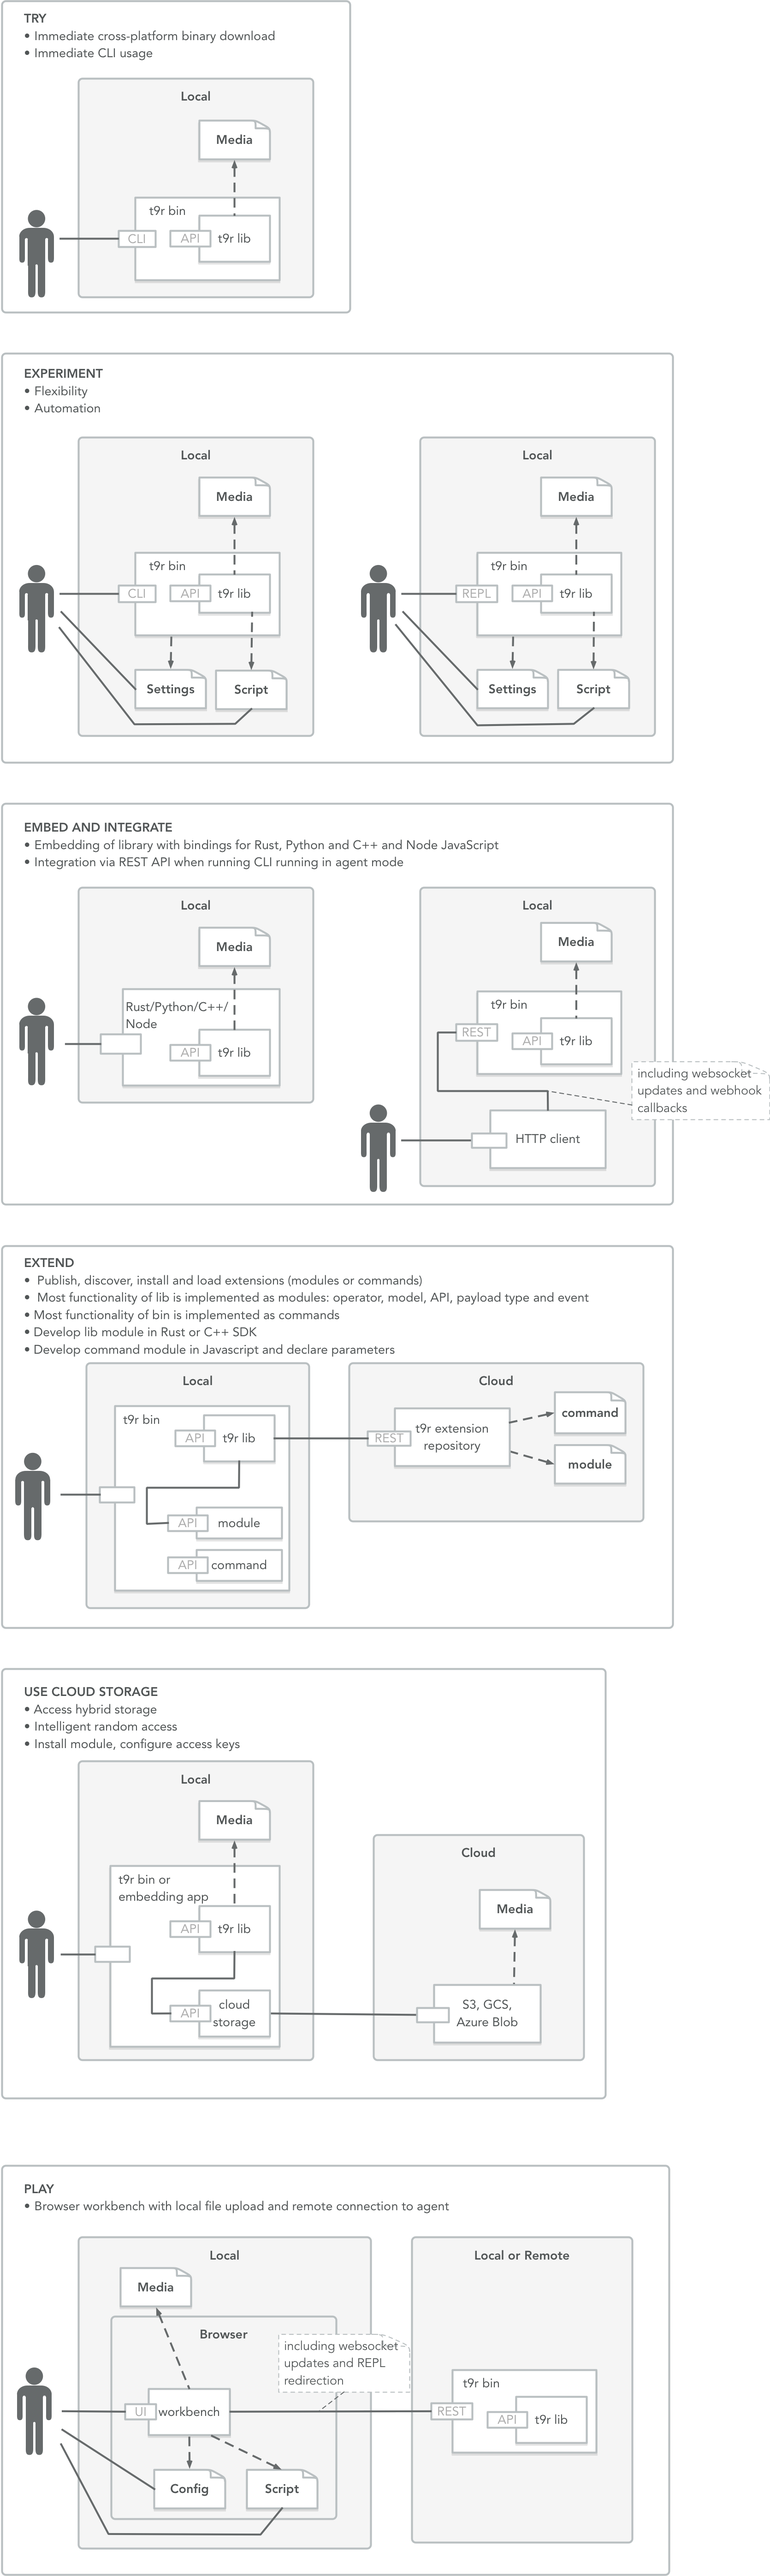
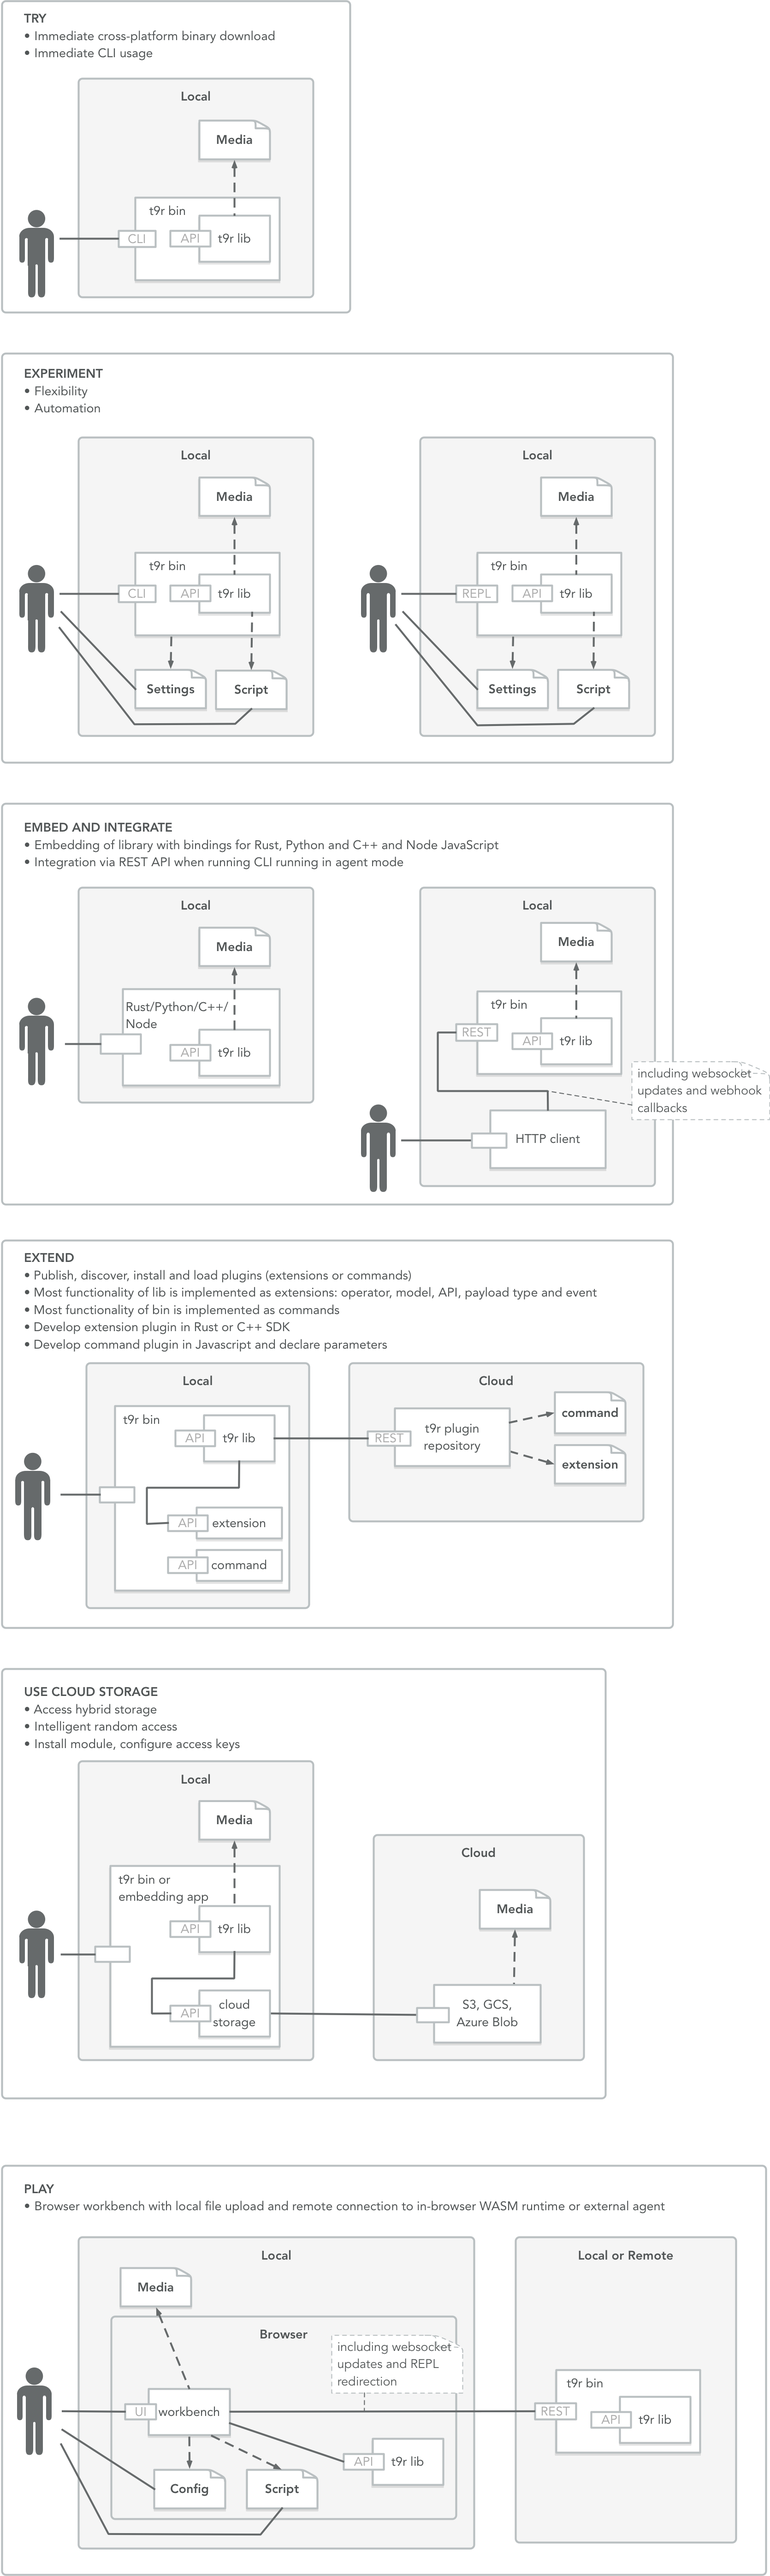
latest updates

Changed region(s): [[0.3737, 0.8412, 0.9964, 1.0], [0.0311, 0.4673, 0.5293, 0.5296]]

diff --git a/design/domain-model-concepts.md b/design/domain-model-concepts.md
@@ -4,15 +4,15 @@ A NodeJS based runtime provides Javascript based access to the t9r framework lib
 
 A core part of this API is a flow based processing model.
 
-Modules extend the API with additional processing operators, data models, data stores, payload types and item attributes.      
+Plugins extend the API with additional processing operators, data models, data stores, payload types and item attributes.      
 
 ### Runtime
 
-The core runtime is exposed via a Javascript API executed within a NodeJS process.
+The core runtime is exposed via a Javascript API executed within
 
-Usage is via a single binary executable CLI.
-
-The CLI also provides a REPL scripting environment and running in agent mode to expose a REST API. 
+- a NodeJS runtime where usage is via a single binary executable CLI. The CLI also provides a REPL scripting 
+environment and running in agent mode to expose a REST API.
+- a browser web worker and WASM based runtime where usage is via a workbench web app.
 
 ### Flow Based Processing
 
@@ -32,12 +32,13 @@ e.g. new flows added.
 At the core all media is read and written using streams, but with the usage of stream attributes e.g. seekable, it is 
 possible to expose efficient access if the underlying storage allows.
 
-Useful 3rd-party tools e.g. ffmpeg can be utilised via modules which explicitly wrap specific functionality as operators.
+Useful 3rd-party tools e.g. ffmpeg can be utilised via extension plugins which explicitly wrap specific functionality
+ as operators.
 
 Flow based processing logic can be performed:
-    - 'in loop': via internal operator logic or via operator exposed callbacks
-    - 'out of loop': via processing graph callbacks, dynamic changes to operator parameters and pre- or post-processing 
-    access to model data accessible to operators via data stores
+- *in loop*: via internal operator logic or via operator exposed callbacks
+- *out of loop*: via processing graph callbacks, dynamic changes to operator parameters and pre- or post-processing 
+access to model data accessible to operators via data stores
 
 A processing session might consist of:
 
@@ -94,9 +95,9 @@ It is possible to globally configure interceptors for all links.
 Items are the units of data passed from operators over links.
 
 An item consists of:
-- attributes: a key->object map
-- payload type: negotiated between operators
-- payload: a chunk of data of the specified payload type
+- *attributes*: a key->object map
+- *payload type*: negotiated between operators
+- *payload*: a chunk of data of the specified payload type
 
 Defined payload types are registered in the registry by modules.
 
@@ -105,31 +106,31 @@ readonly, writable and whether their operator propagation rules.
  
 Punctuation attribute keys e.g. end of stream are dded by the core framework to the registry.
 
-### Extensions
+### Plugins
 
-An extension to the core system is either a module or a command.
+A plugin to the core system is either an extension or a command.
 
 Most of the core t9r functionality is implemented via extensions to the core runtime.
 
-t9r extensions can be discovered and installed using the CLI. 
+t9r plugins can be discovered and installed using the CLI. 
 
-### Modules
+### Extensions
 
-Defined module types are:
+Defined extension types are:
 
-- operator
-- model
-- registry
-- data store
+- *operator*
+- *model*
+- *registry*
+- *data store*
   
-A module consists of a name, a version, dependencies, Javascript and optionally native code libraries.
+An extension consists of a name, a version, dependencies, Javascript and optionally native code libraries.
 
 ### Commands
 
 A command wraps Javascript functionality in a function so that it can be simply executed as a CLI command line argument. 
 
-A commands consists of a name, a version, dependencies, Javascript and a definition of command line arguments and how these are mapped to arguments in 
-the Javascript logic.
+A commands consists of a name, a version, dependencies, Javascript and a definition of command line arguments and 
+how these are mapped to arguments in the Javascript logic.
 
 ### Operators
 
@@ -137,58 +138,58 @@ An operator is implemented in native code and exposed via a Javascript binding.
 
 An operator is defined by:
 
-- properties: typed values which modify operator behaviour and can only be set before the operator is added to a graph 
-- parameters: typed values which modify operator behaviour and can be set while processing is occurring
-- pins:
-	- label: identifier for the pin
-	- type (producer, consumer): whether the pin produces or consumes items 
-	- supportedPayloadTypes: supported item payload types for this pin
-	- assignedPayloadType: item payload type assigned to the link connected to this pin
-	- mandatory: the pin must be linked
-	- static (1, n): a fixed number of these pins
-	- dynamic (added, removed, 0..*): an unknown, variable number of these pins
-	- requested (add, remove, 0..n): a variable, but fixed maximum number of these pins
-    - constraints: constraints defined between pins
+- *properties*: typed values which modify operator behaviour and can only be set before the operator is added to a graph 
+- *parameters*: typed values which modify operator behaviour and can be set while processing is occurring
+- *pins*:
+	- *label*: identifier for the pin
+	- *type* (producer, consumer): whether the pin produces or consumes items 
+	- *supportedPayloadTypes*: supported item payload types for this pin
+	- *assignedPayloadType*: item payload type assigned to the link connected to this pin
+	- *mandatory*: the pin must be linked
+	- *static* (1, n): a fixed number of these pins
+	- *dynamic* (added, removed, 0..*): an unknown, variable number of these pins
+	- *requested* (add, remove, 0..n): a variable, but fixed maximum number of these pins
+    - *constraints*: constraints defined between pins
     
 Example core operators:
 
-- producer: produce items 
-- consumer: consume items
-- transform: modify or consume and produce new items e.g. Attribute Filter, Attribute Enricher
-- route e.g. Payload Type Router, Attribute Router, Scripted Router
-- filter: only pass on certain items e.g. a scripted filter:
+- *produce*: produce items 
+- *consume*: consume items
+- *transform*: modify or consume and produce new items e.g. Attribute Filter, Attribute Enricher
+- *route*: e.g. Payload Type Router, Attribute Router, Scripted Router
+- *filter*: only pass on certain items e.g. a scripted filter:
     ```
     Filter(function (item) {
         return item.attributes["discard"] > 30;
     })
     ```
-- map: for each input item, map to a specific output value e.g. a scripted map operator:
+- *map*: for each input item, map to a specific output value e.g. a scripted map operator:
     ```
     Map(quote => quote.price)
     ```
-- batch: batch individual items into an array of items
-- sequence: split arrays of items into individual items
-- data store: read or write to a data store
-- adaptor: producer or consumer which can link with external sources and sinks of items e.g. webrtc, websockets  
-- scatter: input items on a single input pin are scattered (according to implemented logic) across multiple output pins
-- gather: input items on multiple input pins are gathered (according to implemented logic) and output on a single output pin
-- parallel (with scatter and gather): allows parallel processing - each input item is scattered across a number of 
+- *batch*: batch individual items into an array of items
+- *sequence*: split arrays of items into individual items
+- *data accessor*: read or write to a data store
+- *adapt*: producer or consumer which can link with external sources and sinks of items e.g. webrtc, websockets  
+- *scatter*: input items on a single input pin are scattered (according to implemented logic) across multiple output pins
+- *gather*: input items on multiple input pins are gathered (according to implemented logic) and output on a single output pin
+- *parallel* (with scatter and gather): allows parallel processing - each input item is scattered across a number of 
 parallel paths and the resulting items of each processing path are gathered together in correct order   
-- tee: output copies of the same input items onto multiple separate output pins
-- split: split input items into smaller output items on separate pins e.g. demultiplexer
-- aggregate: combine multiple input items on separate pins into a single larger output item e.g. multiplexer
+- *tee*: output copies of the same input items onto multiple separate output pins
+- *split*: split input items into smaller output items on separate pins e.g. demultiplexer
+- *aggregate*: combine multiple input items on separate pins into a single larger output item e.g. multiplexer
 
 ### Models
 
 Models define explicit typed structure access to:
 
-- item data e.g. packet structures for each specific payload type
-- physical and logical file data e.g. file formats and file content relationships 
-- metadata e.g. extracted semantic data  
+- *item data* e.g. packet structures for each specific payload type
+- *physical and logical file data* e.g. file formats and file content relationships 
+- *metadata* e.g. extracted semantic data  
   
 ### Registry
 
-The registry is updated by modules when they provide implementations of:
+The registry is updated by extensions when they provide implementations of:
 
 - payload types
 - item attribute keys
@@ -208,28 +209,28 @@ Implementations of data stores determine if the data:
 - persisted intermittently
 - remotely stored
 
-### Packages
+### Javascript Modules
 
-As the runtime is based on NodeJS, the underlying plugin and module system is based on npm support for packages. 
+As the runtime uses ES6 modules, plugins can make use of 3rd party Javascript modules. Support for importing these
+in the NodeJS runtime and browser runtime is transparent to the plugin implementer. 
 
-The CLI can be used to:
+The CLI is used to manage and use t9r plugins using t9r commands without any knowledge of NodeJS or npm.
 
-- manage and use t9r modules using t9r commands without any knowledge of NodeJS or npm.
-- manage t9r modules and 3rd party NodeJS packages with knowledge of npm.
+It is also used to scaffold, build and deploy t9r plugins.
 
-For NodeJS developers and t9r plugin framework users, standard NodeJS and npm can also be used to manage and use t9r 
-modules and 3rd party NodeJS packages.
+`npm` is used to manage 3rd party Javascript modules packages.
 
 ### Plugin Framework 
 
-Plugin framework for t9r modules defines extension points to implement:
+The plugin framework for t9r modules defines interfaces to implement:
 
 - commands
-- operators
-- models
-- payload types
-- data stores
-- attribute keys
+- extensions:
+    - operators
+    - data stores
+    - attribute keys
+    - models
+    - payload types
 
 Payload types and models can extend the Javascript API.
 
@@ -251,20 +252,7 @@ Raw logging and telemetry data can be written to various adaptors e.g. standard 
 
 ### Browser Integration
 
-When running the CLI in agent mode, the workbench browser UI can be used for integration.
-
-The interaction between the agent process and the browser is performed via:
-
-- the agent REST API
-- redirection of the REPL standard input and output over HTTP
-- sending logging and telemetry over websockets
-- intercepting data store updates and sending over websockets
-
-The workbench can be launched either by:
-
-- running the CLI with the workbench command which will launch a browser, load the workbench UI and connect to the local 
-instance
-- loading the workbench UI in a browser and specifying an existing agent instance to connect to 
+The workbench browser UI provides a graphical interface for experimentation.
 
 The workbench UI includes components for:
 
@@ -273,3 +261,23 @@ The workbench UI includes components for:
 - presenting operator parameters as UI forms
 - presenting runtime configuration as UI forms
 - structured rendering of data store contents
+
+Two runtimes are supported by the browser workbench:
+
+- The workbench can connect to an external agent process. In this case the interaction between the agent process and the 
+browser is performed via:
+    - the agent REST API
+    - redirection of the REPL standard input and output over HTTP
+    - sending logging and telemetry over websockets
+    - intercepting data store updates and sending over websockets
+- The workbench can launch an in-browser web worker and WASM runtime instance. In this case the interaction is direct between the 
+ workbench Javascript and the Javascript API exposed by the runtime. 
+
+The workbench can be launched either by:
+
+- running the CLI with the workbench command which will launch a browser, load the workbench UI and connect to the local 
+instance
+- loading the workbench UI in a browser and:
+    - specifying an existing agent instance to connect to or
+    - launching the in-browser WASM runtime. 
+

diff --git a/design/cli-usage-walkthrough.md b/design/cli-usage-walkthrough.md
@@ -41,17 +41,17 @@ Core commands:
     help            Display this help message. Use 'help <command>' for detailed help.
     version         Display Tessellator version.
     self-update     Update Tessellator (including core commands and modules).
-    install         Install commands and modules.
-    search          Search commands and modules.
-    remove          Remove installed commands and modules.
-    versions        Display version information for installed commands and modules.
-    update          Update installed commands and modules.
+    install         Install command and extension plugins.
+    search          Search command and extension plugins.
+    remove          Remove installed command and extension plugins.
+    versions        Display version information for installed command and extension plugins.
+    update          Update installed command and extension plugins.
     script          Execute a script using Tessellator and display the result.
     repl            Start Tessellator in REPL interactive mode.
     agent           Start Tessellator in REST API agent mode.
     workbench       Start Tessellator in REST API agent mode and launch the workbench UI in a browser. 
 
-Core modules:
+Core extensions:
 
     file
 
@@ -59,7 +59,7 @@ Installed commands:
 
     None!
 	
-Installed modules:
+Installed extensions:
 
     None!
 ```
@@ -117,7 +117,7 @@ Installed commands:
 
     mxf-metadata-extract    Display metadata extracted from an MXF file.
 	
-Installed modules:
+Installed extensions:
 
     bmx                     MXF file functionality courtesy of BMXLib
     mxf-model               MXF file model
@@ -125,7 +125,8 @@ Installed modules:
 	
 ```
 
-The `mxf-metadata-extract-command` package is a t9r command plugin and makes use of the `bmx` and `mxf-model` modules.
+The `mxf-metadata-extract-command` package is a t9r command plugin and makes use of the `bmx` and `mxf-model` 
+extension plugins.
 
 
 Running:
@@ -176,7 +177,7 @@ A pre-existing script can be executed using:
 
 #### SDK Support
 
-To develop commands and modules or to manage 3rd party NodeJS packages, you need to install the Tessellator SDK:
+To develop command and extension plugins, you need to install the Tessellator SDK:
 
 `t9r install sdk`
 
@@ -200,24 +201,19 @@ Now when you run `t9r --help` the return includes:
 ```
 Installed commands:
 
-    scaffold      Create a new SDK project for a Tessellator command or module.
-    build         Build a Tessellator module which includes native code.
-    packages      Manage 3rd party NodeJS packages.
-    deploy        Publish a Tessellator command or module.
+    scaffold      Create a new SDK project for a Tessellator plugin.
+    build         Build a Tessellator plugin.
+    deploy        Publish a Tessellator plugin.
 
 ```
 
-The `packages` command lets you install, update and delete 3rd party NodeJS packages. They will be downloaded to 
-sub-folders in `~/.t9r/node_modules/`.
+##### npm and 3rd Party Packages
 
-Note that `packages` and `deploy` are wrappers around `npm` functionality. If you have `npm` installed and you configure 
-it (using `prefix`) and the Tessellator `settings.toml` file to use the same modules prefix, you can use `npm` instead
-for equivalent functionality.
+To build a plugin you will need `npm` installed.
 
-Private npmjs.com organisations can be used when using `npm` to manage Tessellator and 3rd party NodeJS packages.
+When you scaffold a new project it will include a `package.json` file and suitable build scripts to build
+ the Javascript plugin for usage in the NodeJS runtime or the browser runtime or both. It will also support building
+ native code as a NodeJS module or WASM module or both.
 
-If the current working directory contains a `packages.json` file, this will be used with the `packages` command
-similar to using `npm`.
-
-When a local `packages.json` file exists in the current folder, this package can be required within the REPL or a
-Tessellator script when running Tessellator from that folder.
+If you configure `npm` (using `prefix`) and the Tessellator `settings.toml` file to use 
+the same modules prefix, you can use `npm` to manage 3rd party packages you wish to import in your plugin.
